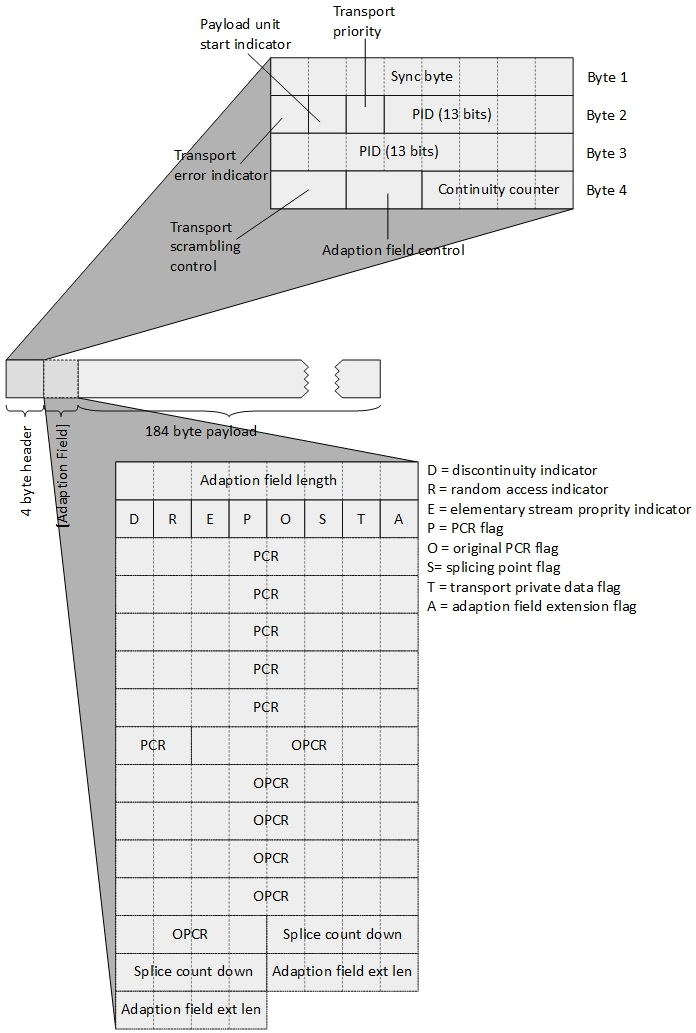
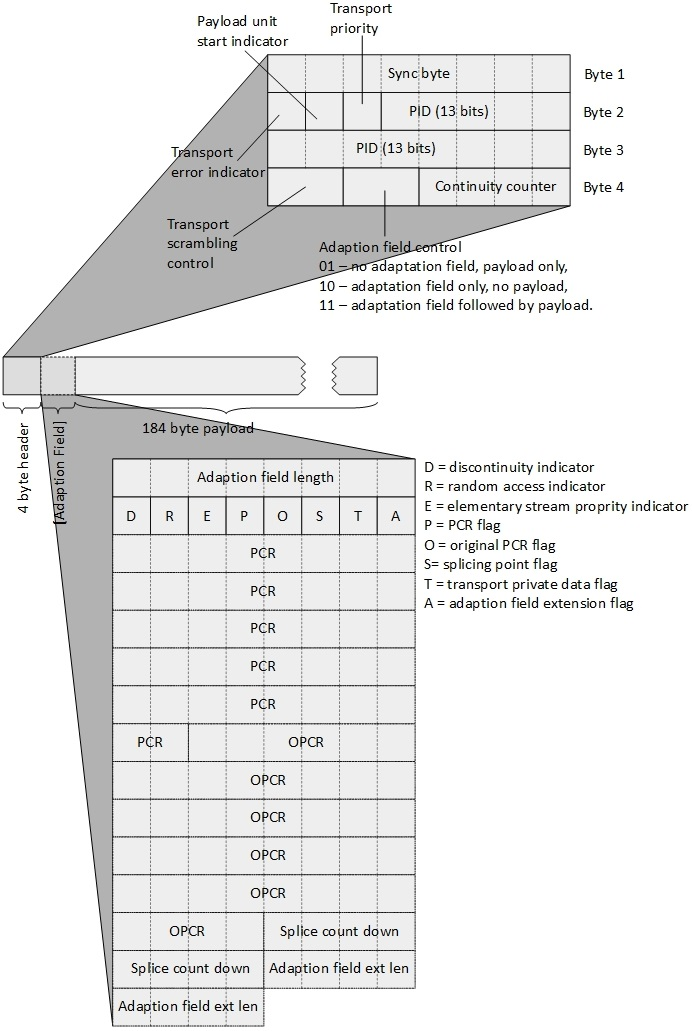
Small addition to the ts packet diagram with annotation of meaning of adaption field control bits

diff --git a/src/html/mpeg.html b/src/html/mpeg.html
@@ -330,6 +330,27 @@
 			<img src="##IMG_DIR##/mpeg/TS_188_Byte_packet.jpg"/>
 		</p>
 		<p>
+			So, for example, one common operation might be to check whether the TS 
+			packet contains a PCR. The following test would do it (if you wrote it for real
+			you'd just make it a one-liner!):
+		</p>
+
+		<pre class="prettyprint linenums">bool adaption_field_length_valid = false;
+bool adaption_field_contains_pcr = false;
+bool adaption_field_present = (raw_ts_packet[3] &amp; 0x20) 
+
+if (adaption_field_present) {
+   adaption_field_length_valid = (raw_ts_packet[4] > 0);
+   if(adaption_field_length_valid)
+      adaption_field_contains_pcr = raw_ts_packet[5] &amp; 0x10;
+}
+
+if (adaption_field_contains_pcr) {
+   // raw_ts_packet[6] to raw_ts_packet[10] and 
+   // raw_ts_packet[11] &amp; 0xC0 &gt;&gt; 6
+}</pre>
+
+		<p>
 			PIDs are unique identifies. Some PIDs are reserved:
 		</p>
 		<table>
@@ -348,6 +369,7 @@
 		<p>
 			<img src="##IMG_DIR##/mpeg/PMT_PAT.jpg"/>
 		</p>		
+}
 	</div> <!-- END: H2 -->
 </div> <!-- END H1 padding div -->
 
